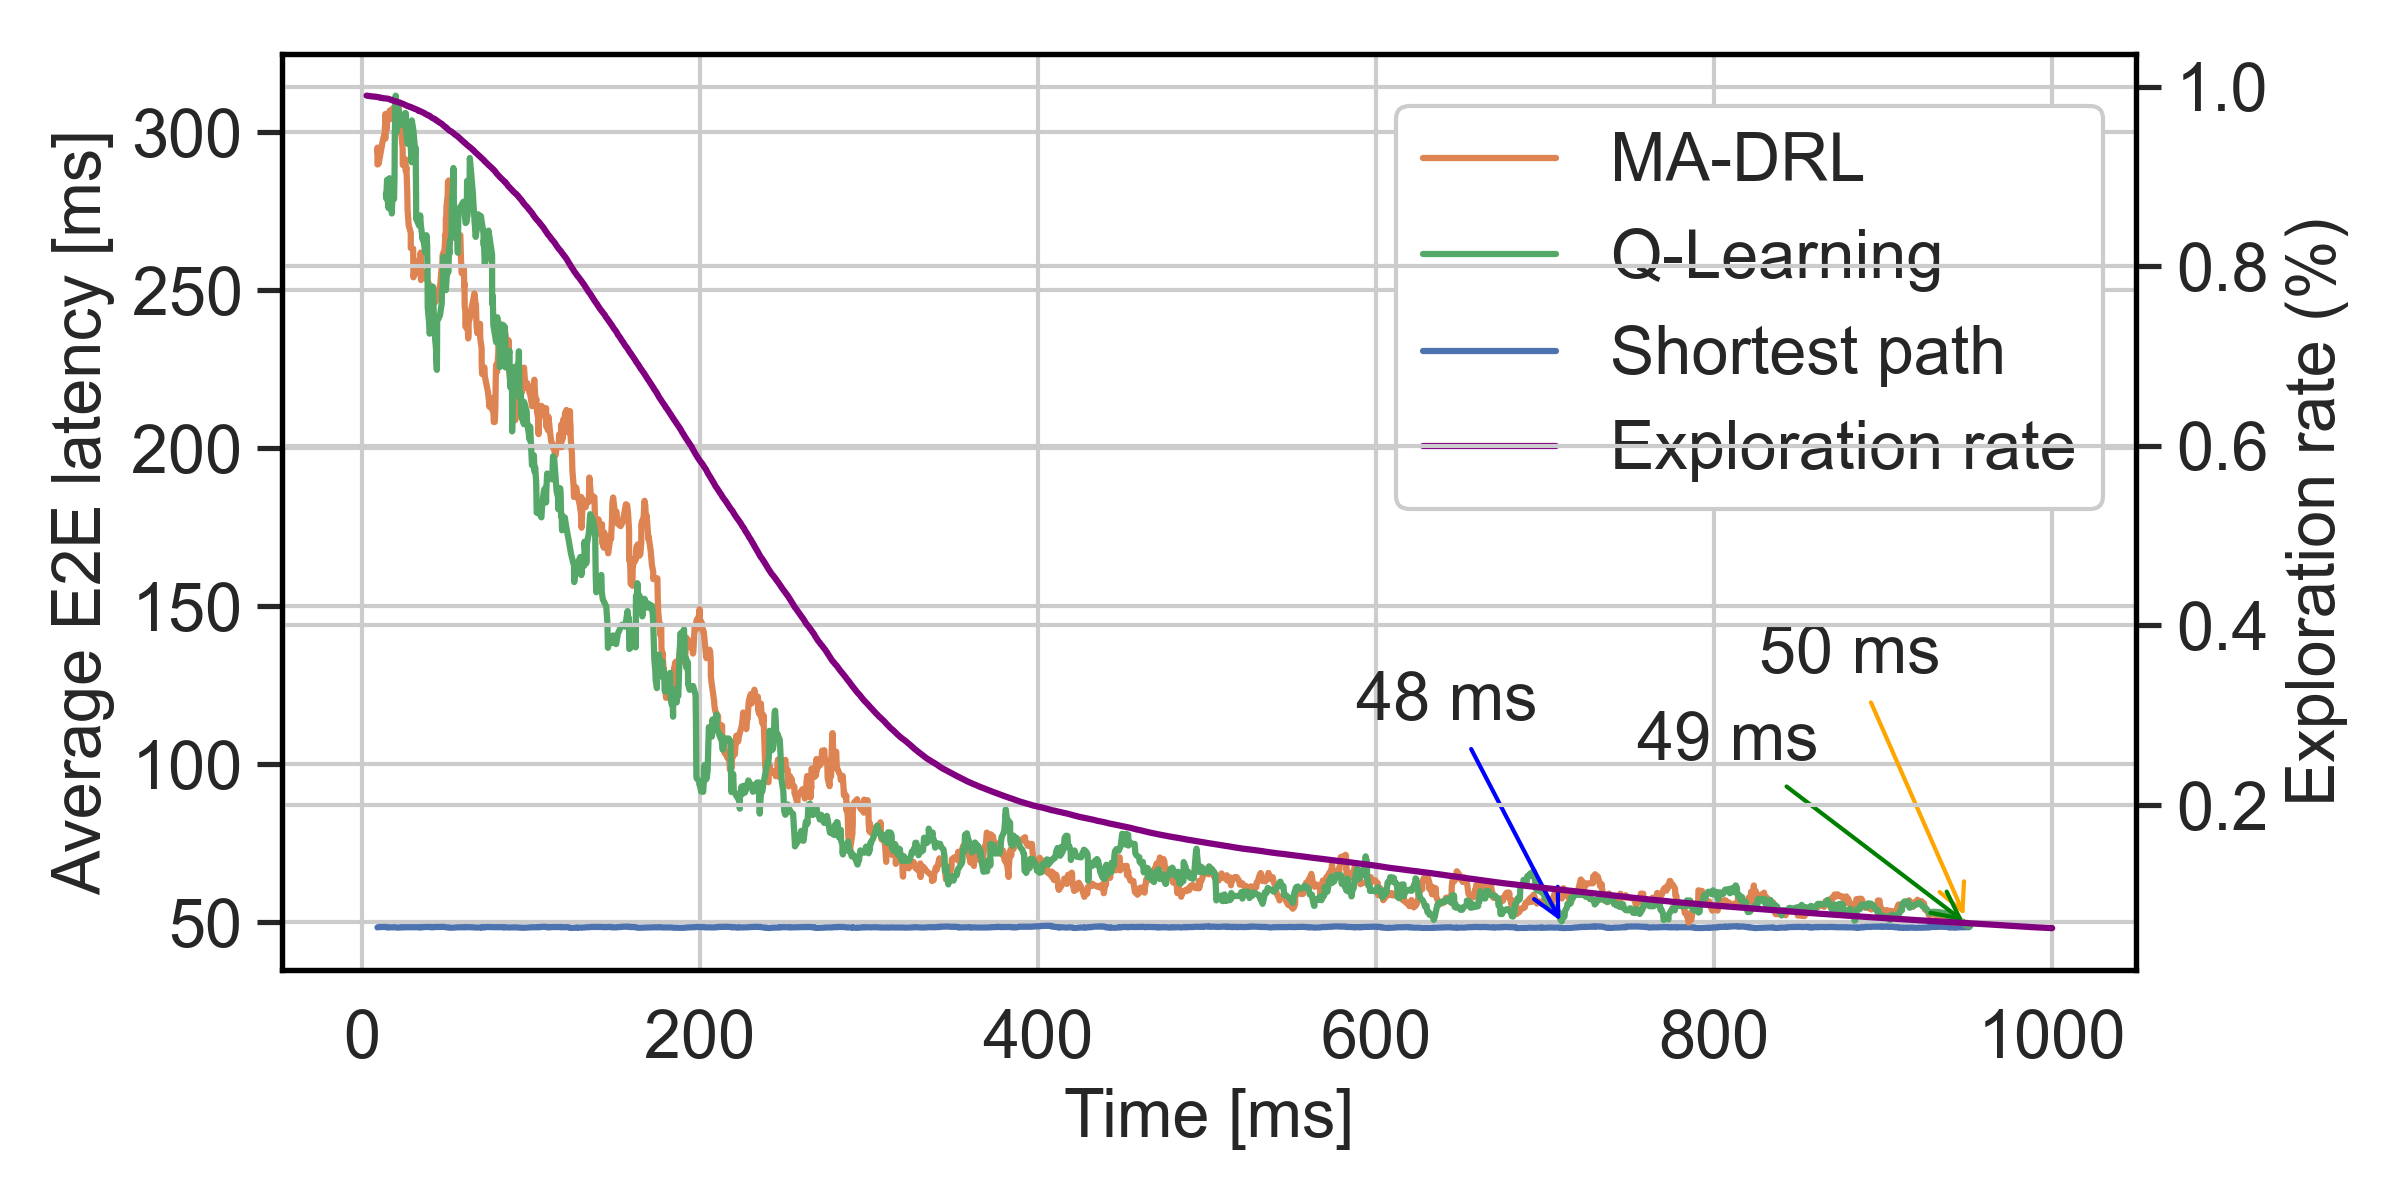
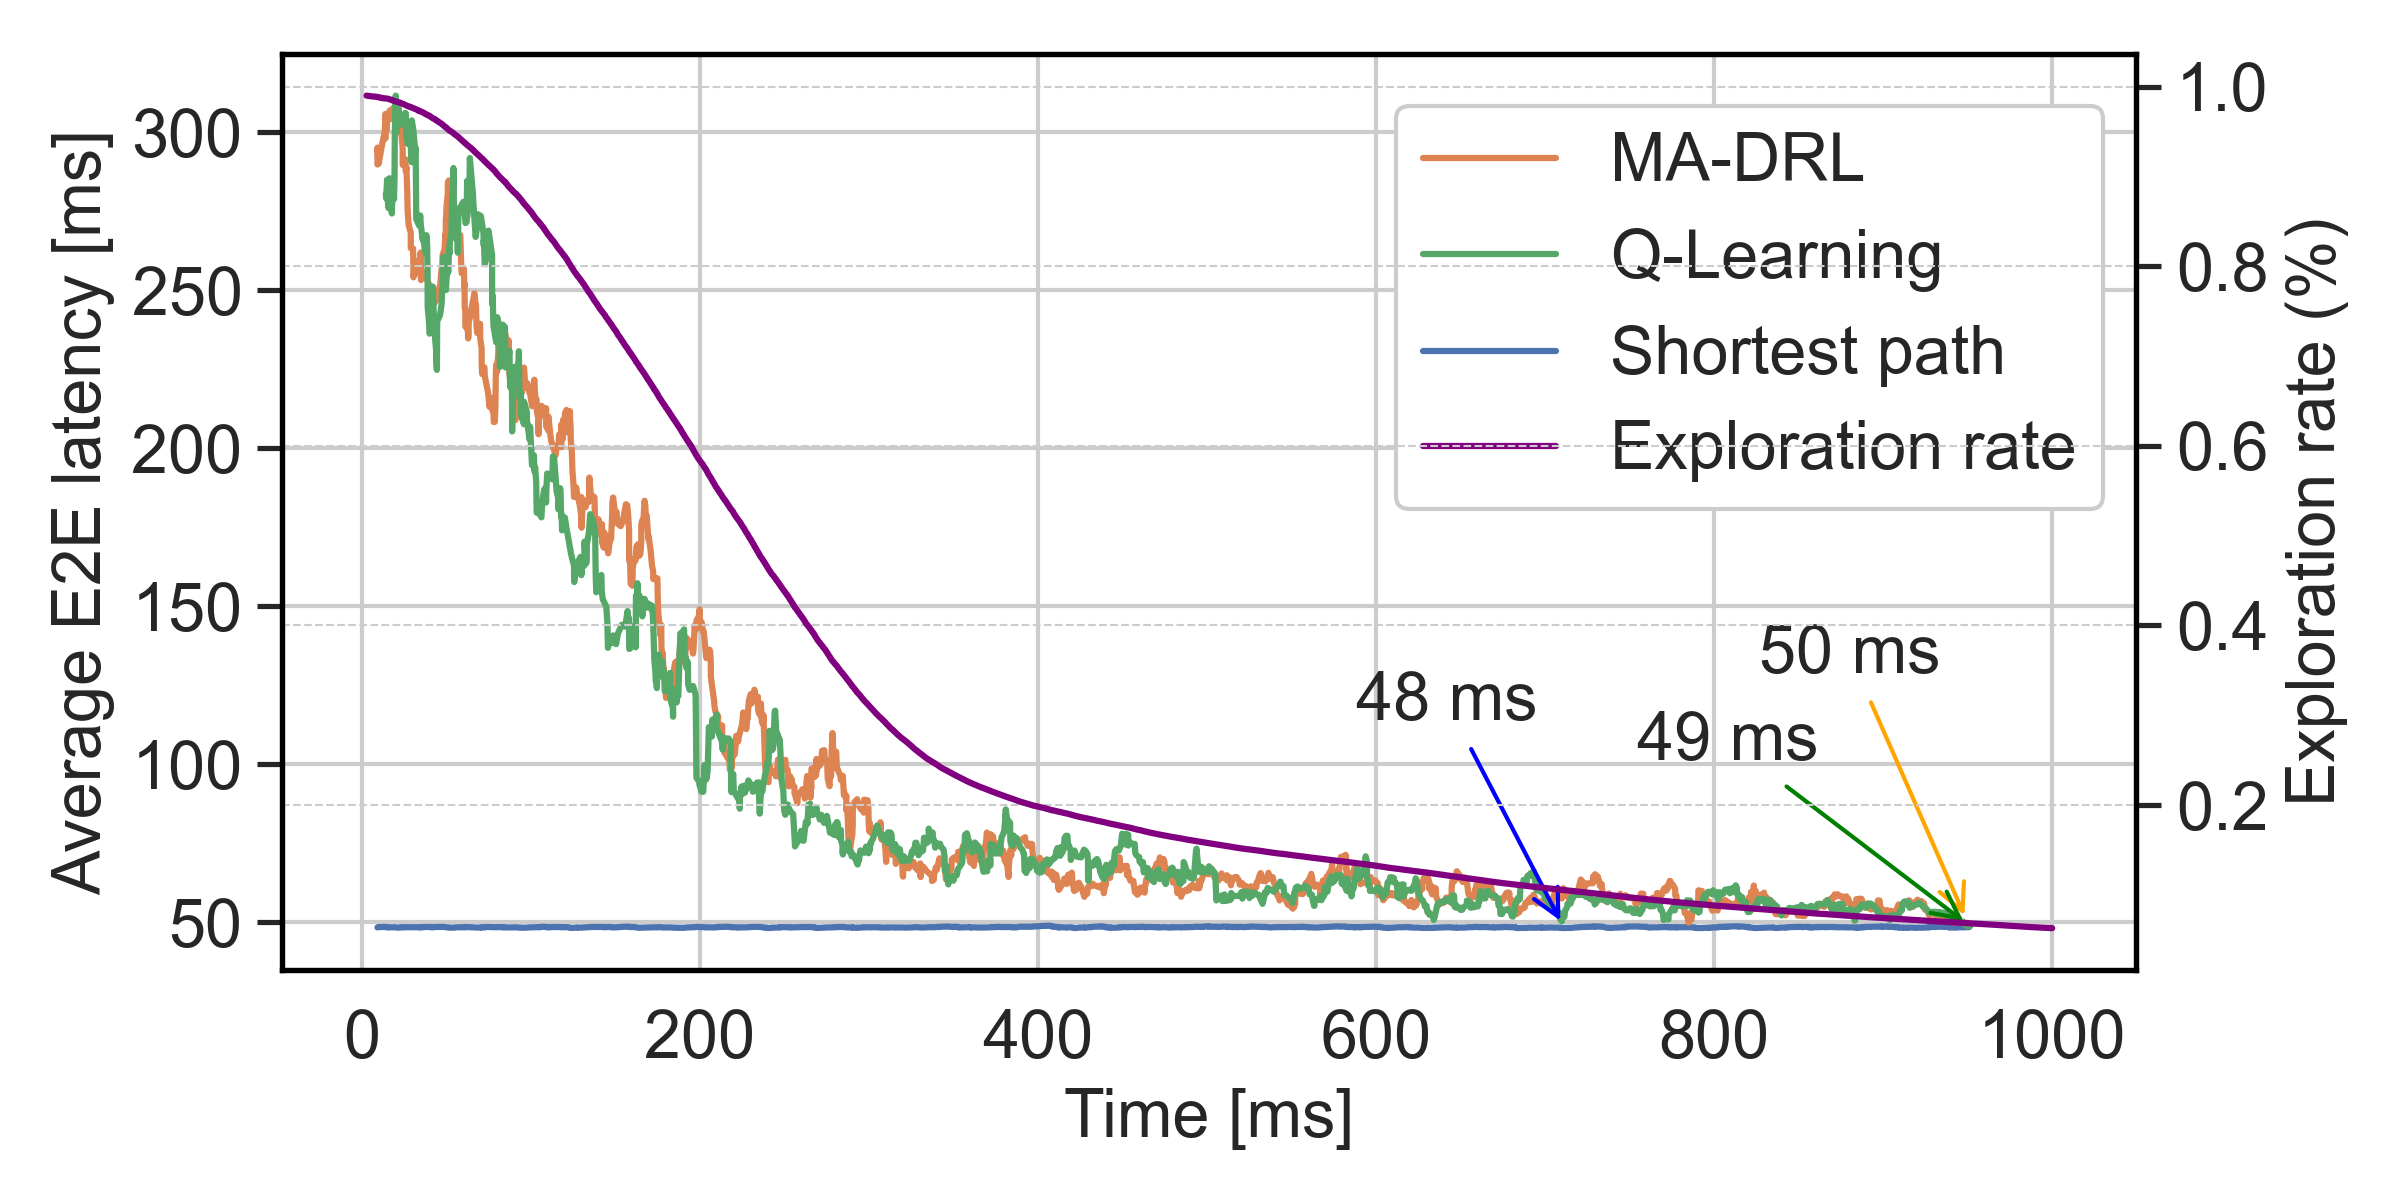
Added gif in readme and enhanced the plotting of rewards and e2e delay vs time in port-processing

diff --git a/SimulationRL.py b/SimulationRL.py
@@ -5758,14 +5758,11 @@ def save_plot_rewards(outputPath, reward, GTnumber, window_size=200):
 
     # Plotting
     plt.figure(figsize=(8, 4))
-    # plt.plot(data['Time'], data['Rewards'], label='Original Rewards', alpha=0.3, color='grey')
-    plt.plot(data['Time'], data['Smoothed Rewards'], color='blue', linewidth=2, label='Rewards')
-    plt.plot(data['Time'], data['Top 10% Avg Rewards'], color='green', linewidth=2, linestyle='--', label='Top 10%')
-    plt.plot(data['Time'], data['Bottom 10% Avg Rewards'], color='red', linewidth=2, linestyle='-.', label='Bottom 10%')
-    # plt.title("Rewards over Time", fontsize=20)  # Increase title font size
-    # plt.xlabel("Time (s)", fontsize=20)
-    # plt.ylabel("Rewards", fontsize=20)
-    plt.legend(fontsize=15)
+    line1, = plt.plot(data['Time'], data['Top 10% Avg Rewards'], color='skyblue', linewidth=2, label='Top 10% reward')
+    line2, = plt.plot(data['Time'], data['Smoothed Rewards'], color='blue', linewidth=2, label='Average reward')
+    line3, = plt.plot(data['Time'], data['Bottom 10% Avg Rewards'], color='navy', linewidth=2, label='Bottom 10% reward')
+
+    plt.legend(handles=[line1, line2, line3], fontsize=15, loc='upper right')
     plt.xticks(fontsize=15)
     plt.yticks(fontsize=15)
     plt.xlabel("Time [ms]", fontsize=15)
@@ -5776,7 +5773,7 @@ def save_plot_rewards(outputPath, reward, GTnumber, window_size=200):
     # Save plot
     rewards_dir = os.path.join(outputPath, 'Rewards')
     os.makedirs(rewards_dir, exist_ok=True)  # create output path
-    plt.savefig(os.path.join(rewards_dir, "rewards_{}_gateways.png".format(GTnumber)))
+    plt.savefig(os.path.join(rewards_dir, "rewards_{}_gateways.png".format(GTnumber)), bbox_inches='tight')
     plt.close()
 
     # Save CSV

diff --git a/README.md b/README.md
@@ -5,9 +5,9 @@ Contained in this repository is the code used for simulating data transmissions 
 ## MA-DRL routing demonstration in a moving Kepler constellation from Malaga, Spain to Los Angeles, USA
 
 <!-- [![Demo Video](Video/MA-DRL_Movement_screenshot.png)](https://raw.githubusercontent.com/SatNEx-Malaga/MA-DRL_Routing_Simulator/main/Video/MA-DRL_Movement.mp4) -->
-[![Demo Video](Video/MA-DRL_Movement_screenshot.png)](https://drive.google.com/file/d/1So7jtUwEdobJLzztXv6JmxP2B79PQDU0/preview)
+[![Demo Video](Video/Demo.gif)](https://drive.google.com/file/d/1So7jtUwEdobJLzztXv6JmxP2B79PQDU0/preview)
 
-> Click the image above to download the demo video.
+> Click the image above to see the full demo video.
 
 The simulations are built using the event based discrete time simulation framework Simpy.
 
